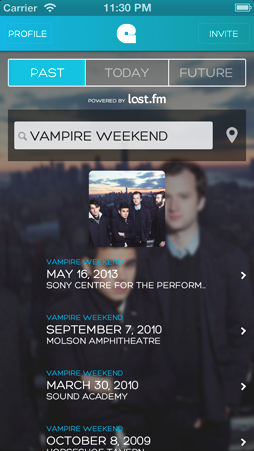
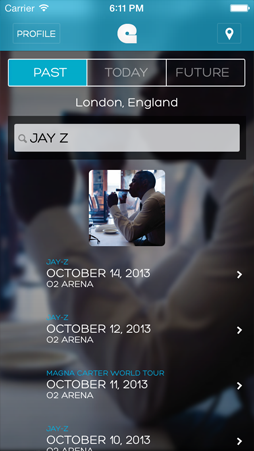
New screenshots for iPhone demo

diff --git a/index.html b/index.html
@@ -70,7 +70,7 @@
     <div class="row-fluid iphone-wrapper">
       <div class="main_content iphone">
         <ul class="group">
-          <li class="active" style="padding-left: 30px;">
+          <li class="left" style="padding-left: 30px;">
             <div class="white" style="width: 180px; height: 140px; border-radius: 10px;">
               <a href="index.html#feature">
                 <h3>Upcoming Shows</h3>
@@ -82,39 +82,39 @@
           <li class="right" style="width: 180px; padding-left: 160px;">
             <div class="white" style="width: 180px; height: 140px; border-radius: 10px;">
               <a href="index.html#feature">
-                <h3>Past Concerts</h3>
-                <p style="margin-top: 25px; margin-right: 0px; margin-bottom: 0px;">Find past shows you have attended</p>
+                <h3>Past shows</h3>
+                <p style="margin-top: 25px; margin-right: 0px; margin-bottom: 0px;">Find past events you've attended</p>
               </a>
               <img src="images/features/past.png" alt="Past Concerts" title="Past Concerts" />
             </div>
           </li>
           <li>
-            <li class="active" style="padding-left: 30px;">
+            <li class="left" style="padding-left: 30px;">
             <div class="white" style="width: 180px; height: 143px; border-radius: 10px;">
               <a href="index.html#feature">
-                <h3 style="margin-right: 0px; margin-bottom: 5px; margin-left: 0px;">Photos and Videos</h3>
-                <p>Get crowdsourced timecapsules of your shows</p>
+                <h3 style="margin-right: 0px; margin-bottom: 5px; margin-left: 0px;">Tickets and Friends</h3>
+                <p>Get your crew together and snag tickets</p>
               </a>
-              <img src="images/features/photos_videos.png" alt="Photos and Videos" title="Photos and Videos" />
+              <img src="images/features/tickets.png" alt="Tickets and Friends" title="Tickets and Friends" />
             </div>
           </li>
-          <li class="right" style="width: 180px; padding-left: 160px;">
-            <div class="white" style="width: 180px; height: 140px; border-radius: 10px;">
+          <li class="active" style="width: 180px; padding-left: 160px;">
+            <div class="white" style="width: 180px; height: 143px; border-radius: 10px;">
               <a href="index.html#feature">
-                <h3>Your Concert Profile</h3>
-                <p>Hold onto your concert memories with Encore</p>
+                <h3>Photos and Videos</h3>
+                <p>Get crowdsourced timecapsules of your shows</p>
               </a>
-              <img src="images/features/profile.png" alt="Your Concert Profile" title="Your Concert Profile" />
+              <img src="images/features/photosvideos.png" alt="Photos and Videos" title="Photos and Videos" />
             </div>
           </li>
           <li>
-            <li class="active" style="padding-left: 30px;">
-            <div class="white" style="width: 180px; height: 143px; border-radius: 10px;">
+            <li class="left" style="padding-left: 30px;">
+            <div class="white" style="width: 180px; height: 140px; border-radius: 10px;">
               <a href="index.html#feature">
-                <h3 style="margin-right: 0px; margin-bottom: 5px; margin-left: 0px;">Photos and Videos</h3>
-                <p>Get crowdsourced timecapsules of your shows</p>
+                <h3 style="margin-right: 0px; margin-bottom: 5px; margin-left: 0px;">Details and Music</h3>
+                <p>Listen to the lineup's music and see who's going</p>
               </a>
-              <img src="images/features/photos_videos.png" alt="Photos and Videos" title="Photos and Videos" />
+              <img src="images/features/details.png" alt="Details and Music" title="Details and Music" />
             </div>
           </li>
           <li class="right" style="width: 180px; padding-left: 160px;">

diff --git a/css/main.css b/css/main.css
@@ -18,7 +18,7 @@
 }
 
 
-.main_content { position: relative; width: 800px; height: 850px; margin-top: 40px; background: url("images/black_iphone.png") no-repeat center 14.5px; }
+.main_content { position: relative; width: 800px; height: 850px; margin-top: 100px; background: url("images/black_iphone.png") no-repeat center 14.5px; }
 .main_content img { position: absolute; right: 0px; top: 0px; }
 .main_content ul {list-style-type: none; margin: 0 0 10px; padding: 65px 0 0; width: 800px; z-index: -1;}
 .main_content ul li { width: 400px; float: left; font-size: 16px; color: #fff;}
